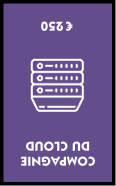
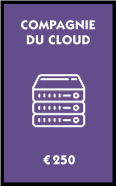
Rien à push, mais j'ai juste touché au points de compétences pour tester donc obliger de commit pour checkout

diff --git a/src/model/ModelJoueur.java b/src/model/ModelJoueur.java
@@ -5,7 +5,7 @@ public class ModelJoueur {
 	private int position;
 	private String pseudonyme;
 	private ModelJoueurCouleur couleur;
-	private int pointsCompetences = 5000;
+	private int pointsCompetences = 500;
 	private boolean enPrison;
 	private int toursEnPrison;
 	private ModelJoueurRole roleJoueur = ModelJoueurRole.JOUEUR; // Je définis la valeur par défaut du role ICI